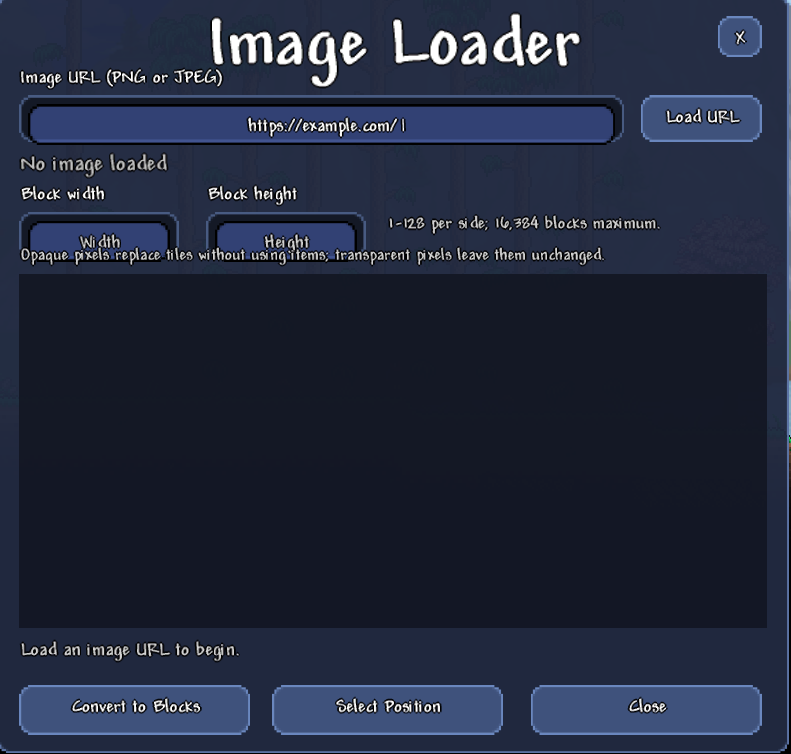
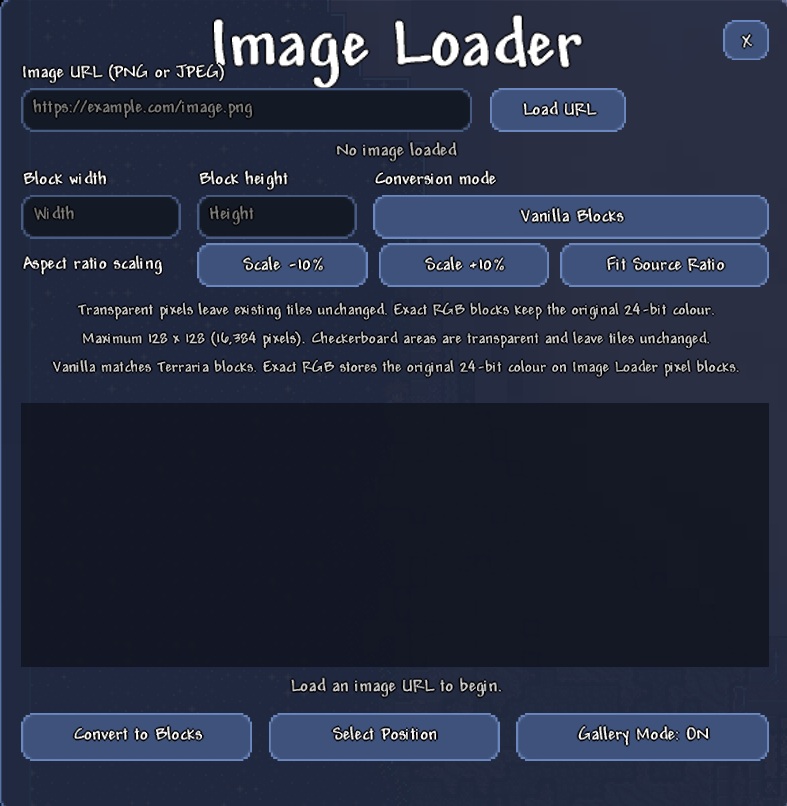
Release Image Loader 0.7.1 branding refresh

diff --git a/tools/build_brand_assets.py b/tools/build_brand_assets.py
@@ -1,0 +1,155 @@
+from pathlib import Path
+
+from PIL import Image, ImageDraw, ImageEnhance, ImageFont, ImageOps
+
+
+ROOT = Path(__file__).resolve().parents[1]
+IMAGES = ROOT / "docs" / "images"
+
+NAVY = "#151d35"
+PANEL = "#202b49"
+BLUE = "#7899df"
+PALE = "#eef2ff"
+CYAN = "#55d6d2"
+GOLD = "#ffd45f"
+CORAL = "#ff7657"
+
+
+def font(size: int, bold: bool = False) -> ImageFont.FreeTypeFont:
+    name = "segoeuib.ttf" if bold else "segoeui.ttf"
+    return ImageFont.truetype(str(Path("C:/Windows/Fonts") / name), size)
+
+
+def draw_pixel_letters(draw: ImageDraw.ImageDraw, origin: tuple[int, int], scale: int) -> None:
+    glyphs = {
+        "I": ["111", "010", "010", "010", "010", "010", "111"],
+        "L": ["100", "100", "100", "100", "100", "100", "111"],
+    }
+    x0, y0 = origin
+    cursor = x0
+    for letter in "IL":
+        rows = glyphs[letter]
+        for y, row in enumerate(rows):
+            for x, value in enumerate(row):
+                if value == "1":
+                    draw.rectangle(
+                        (
+                            cursor + x * scale,
+                            y0 + y * scale,
+                            cursor + (x + 1) * scale - 1,
+                            y0 + (y + 1) * scale - 1,
+                        ),
+                        fill=PALE,
+                    )
+        cursor += 4 * scale
+
+
+def build_icon() -> Image.Image:
+    icon = Image.new("RGB", (80, 80), NAVY)
+    draw = ImageDraw.Draw(icon)
+    draw.rectangle((2, 2, 77, 77), outline="#0a1020", width=3)
+    draw.rectangle((6, 6, 73, 73), fill=PANEL, outline=BLUE, width=3)
+
+    colours = [CYAN, BLUE, "#9b72cf", CORAL, GOLD]
+    for index, colour in enumerate(colours):
+        x = 10 + index * 12
+        draw.rectangle((x, 11, x + 8, 19), fill=colour)
+
+    draw.rectangle((12, 26, 67, 66), fill="#11192e")
+    for y in range(26, 67, 8):
+        for x in range(12, 68, 8):
+            if ((x - 12) // 8 + (y - 26) // 8) % 2 == 0:
+                draw.rectangle((x, y, min(x + 7, 67), min(y + 7, 66)), fill="#27365b")
+
+    draw.rectangle((20, 42, 58, 65), fill="#263f76")
+    draw.polygon(((20, 52), (31, 40), (40, 49), (48, 38), (58, 51), (58, 65), (20, 65)), fill=CYAN)
+    draw.rectangle((54, 31, 61, 38), fill=GOLD)
+
+    draw_pixel_letters(draw, (24, 31), 5)
+    return icon
+
+
+def fit_crop(image: Image.Image, size: tuple[int, int]) -> Image.Image:
+    return ImageOps.fit(image, size, method=Image.Resampling.LANCZOS, centering=(0.5, 0.48))
+
+
+def build_banner(icon: Image.Image) -> Image.Image:
+    menu = Image.open(IMAGES / "menu.png").convert("RGB")
+    exact = Image.open(IMAGES / "exact-rgb-source.png").convert("RGB")
+
+    banner = Image.new("RGB", (1400, 420), NAVY)
+
+    menu_texture = fit_crop(menu.crop((0, 0, menu.width, min(menu.height, 560))), (760, 420))
+    menu_texture = ImageEnhance.Brightness(menu_texture).enhance(0.46)
+    banner.paste(menu_texture, (0, 0))
+
+    duck_crop = exact.crop(
+        (
+            int(exact.width * 0.28),
+            int(exact.height * 0.03),
+            int(exact.width * 0.74),
+            int(exact.height * 0.92),
+        )
+    )
+    duck_panel = fit_crop(duck_crop, (650, 400))
+    banner.paste(duck_panel, (742, 10))
+
+    draw = ImageDraw.Draw(banner)
+
+    # A hard pixel staircase separates the product panel from the in-game art.
+    steps = [(690, 0), (750, 0), (750, 52), (738, 52), (738, 104), (726, 104),
+             (726, 156), (714, 156), (714, 208), (702, 208), (702, 260),
+             (690, 260), (690, 420), (0, 420), (0, 0)]
+    draw.polygon(steps, fill=NAVY)
+    for offset in (0, 5):
+        draw.line([(750 - offset, 0), (750 - offset, 52), (738 - offset, 52),
+                   (738 - offset, 104), (726 - offset, 104), (726 - offset, 156),
+                   (714 - offset, 156), (714 - offset, 208), (702 - offset, 208),
+                   (702 - offset, 260), (690 - offset, 260), (690 - offset, 420)],
+                  fill=BLUE if offset == 0 else "#2b3a60", width=3)
+
+    title = menu.crop((205, 2, 595, 72))
+    title = title.resize((552, 99), Image.Resampling.LANCZOS)
+    title_cleanup = ImageDraw.Draw(title)
+    title_cleanup.rectangle((0, 87, 38, 98), fill=title.getpixel((500, 90)))
+    banner.paste(title, (66, 43))
+
+    draw.text((72, 166), "LOAD  •  CONVERT  •  PLACE", font=font(26, True), fill=PALE)
+    draw.text((72, 207), "URL images become Terraria canvases.", font=font(23), fill="#cdd8f5")
+
+    chip_x = 72
+    for label, colour in (("VANILLA BLOCKS", BLUE), ("EXACT RGB", CORAL), ("GALLERY MODE", CYAN)):
+        box = draw.textbbox((0, 0), label, font=font(16, True))
+        width = box[2] - box[0] + 28
+        draw.rectangle((chip_x, 258, chip_x + width, 294), fill=PANEL, outline=colour, width=2)
+        draw.text((chip_x + 14, 265), label, font=font(16, True), fill=PALE)
+        chip_x += width + 12
+
+    banner.paste(icon.resize((72, 72), Image.Resampling.NEAREST), (72, 322))
+    draw.text((164, 329), "IMAGE LOADER", font=font(21, True), fill=PALE)
+    draw.text((164, 359), "tModLoader • Terraria 1.4.4", font=font(17), fill="#aebfe9")
+
+    draw.rectangle((0, 0, 1399, 419), outline="#0a1020", width=8)
+    draw.rectangle((8, 8, 1391, 411), outline=BLUE, width=2)
+    return banner
+
+
+def main() -> None:
+    gallery_source = Image.open(IMAGES / "gallery-source.png").convert("RGB")
+    gallery_source.crop((422, 0, gallery_source.width, 835)).save(
+        IMAGES / "gallery.png", optimize=True
+    )
+
+    exact_source = Image.open(IMAGES / "exact-rgb-source.png").convert("RGB")
+    exact_source.crop((408, 0, exact_source.width, 900)).save(
+        IMAGES / "exact-rgb-placement.png", optimize=True
+    )
+
+    icon = build_icon()
+    icon.save(ROOT / "icon.png", optimize=True)
+    icon.resize((30, 30), Image.Resampling.NEAREST).save(ROOT / "icon_small.png", optimize=True)
+    build_banner(icon).save(IMAGES / "banner.png", optimize=True)
+
+
+if __name__ == "__main__":
+    main()

diff --git a/Common/Systems/UIHandler.cs b/Common/Systems/UIHandler.cs
@@ -441,27 +441,6 @@ public sealed class UIHandler : ModSystem
                     - 28f
             );
 
-        var background =
-            new Rectangle(
-                (int)position.X - 8,
-                (int)position.Y - 5,
-                (int)textSize.X + 16,
-                (int)textSize.Y + 10
-            );
-
-        spriteBatch.Draw(
-            TextureAssets
-                .MagicPixel
-                .Value,
-            background,
-            new Color(
-                15,
-                22,
-                38,
-                205
-            )
-        );
-
         Utils.DrawBorderString(
             spriteBatch,
             text,

diff --git a/README.md b/README.md
@@ -1,5 +1,5 @@
 <p align="center">
-  <img src="docs/images/banner.svg" alt="Image Loader for Terraria" width="100%">
+  <img src="docs/images/banner.png" alt="Image Loader for Terraria — load, convert, place" width="100%">
 </p>
 
 <p align="center">
@@ -39,6 +39,18 @@ The placement system works in normal non-Journey worlds. It does not consume inv
 </p>
 
 <p align="center"><em>Gallery Mode makes large image installations easier to inspect.</em></p>
+
+<p align="center">
+  <img src="docs/images/exact-rgb-placement.png" alt="Exact RGB duck image being positioned in Terraria" width="900">
+</p>
+
+<p align="center"><em>Exact RGB output preserves clean source colours instead of reducing the image to the vanilla palette.</em></p>
+
+<p align="center">
+  <img src="docs/images/map-support.png" alt="Exact RGB duck artwork visible on Terraria minimap and full map" width="900">
+</p>
+
+<p align="center"><em>Exact RGB artwork is represented on both Terraria's minimap and full-screen map.</em></p>
 
 ## Feature overview
 
@@ -218,7 +230,8 @@ Only install mods and release files from sources you trust. Back up important Te
 
 | Image Loader | Terraria | tModLoader | Status |
 | --- | --- | --- | --- |
-| 0.7.0 | 1.4.4.9 | 2026.08 preview line | Current tested build |
+| 0.7.1 | 1.4.4.9 | 2026.08 preview line | Current tested build |
+| 0.7.0 | 1.4.4.9 | 2026.08 preview line | Previous stable build |
 | 0.6.0 | 1.4.4.9 | 2026.08 preview line | Superseded experimental schematic release |
 | 0.5.2 | 1.4.4 | Matching 1.4.4 preview build | Legacy binary/source tag |
 
@@ -229,7 +242,7 @@ Image Loader is written for the Terraria 1.4.4 tModLoader API. A `.tmod` package
 - `main` contains the latest stable release source.
 - `experimental` is the integration branch for features that still need in-game validation.
 - `legacy/0.5.x` preserves the final 0.5-series source.
-- Stable releases use semantic version tags such as `v0.7.0`.
+- Stable releases use semantic version tags such as `v0.7.1`.
 - Every release should include the matching `.tmod` package, compatibility note, and concise changelog.
 
 ## Building from the command line

diff --git a/.github/release-notes/v0.7.1.md b/.github/release-notes/v0.7.1.md
@@ -1,0 +1,15 @@
+## Image Loader 0.7.1
+
+This release refreshes Image Loader's public branding and simplifies the Gallery zoom display.
+
+### Changed
+
+- Removed the dark rectangle behind the Gallery Zoom HUD label.
+- Kept Terraria's outlined text rendering so the zoom value remains readable over the world.
+- Replaced the generic gradient README banner with reproducible Image Loader branding built from real in-game screenshots.
+- Replaced the generic mod icon with a dedicated Image Loader pixel-canvas icon.
+- Updated README screenshots with the current menu, Gallery view, Exact RGB placement, and map/minimap support.
+
+### Compatibility
+
+Built and compiled against Terraria 1.4.4.9 with the tModLoader 2026.08 preview line.
